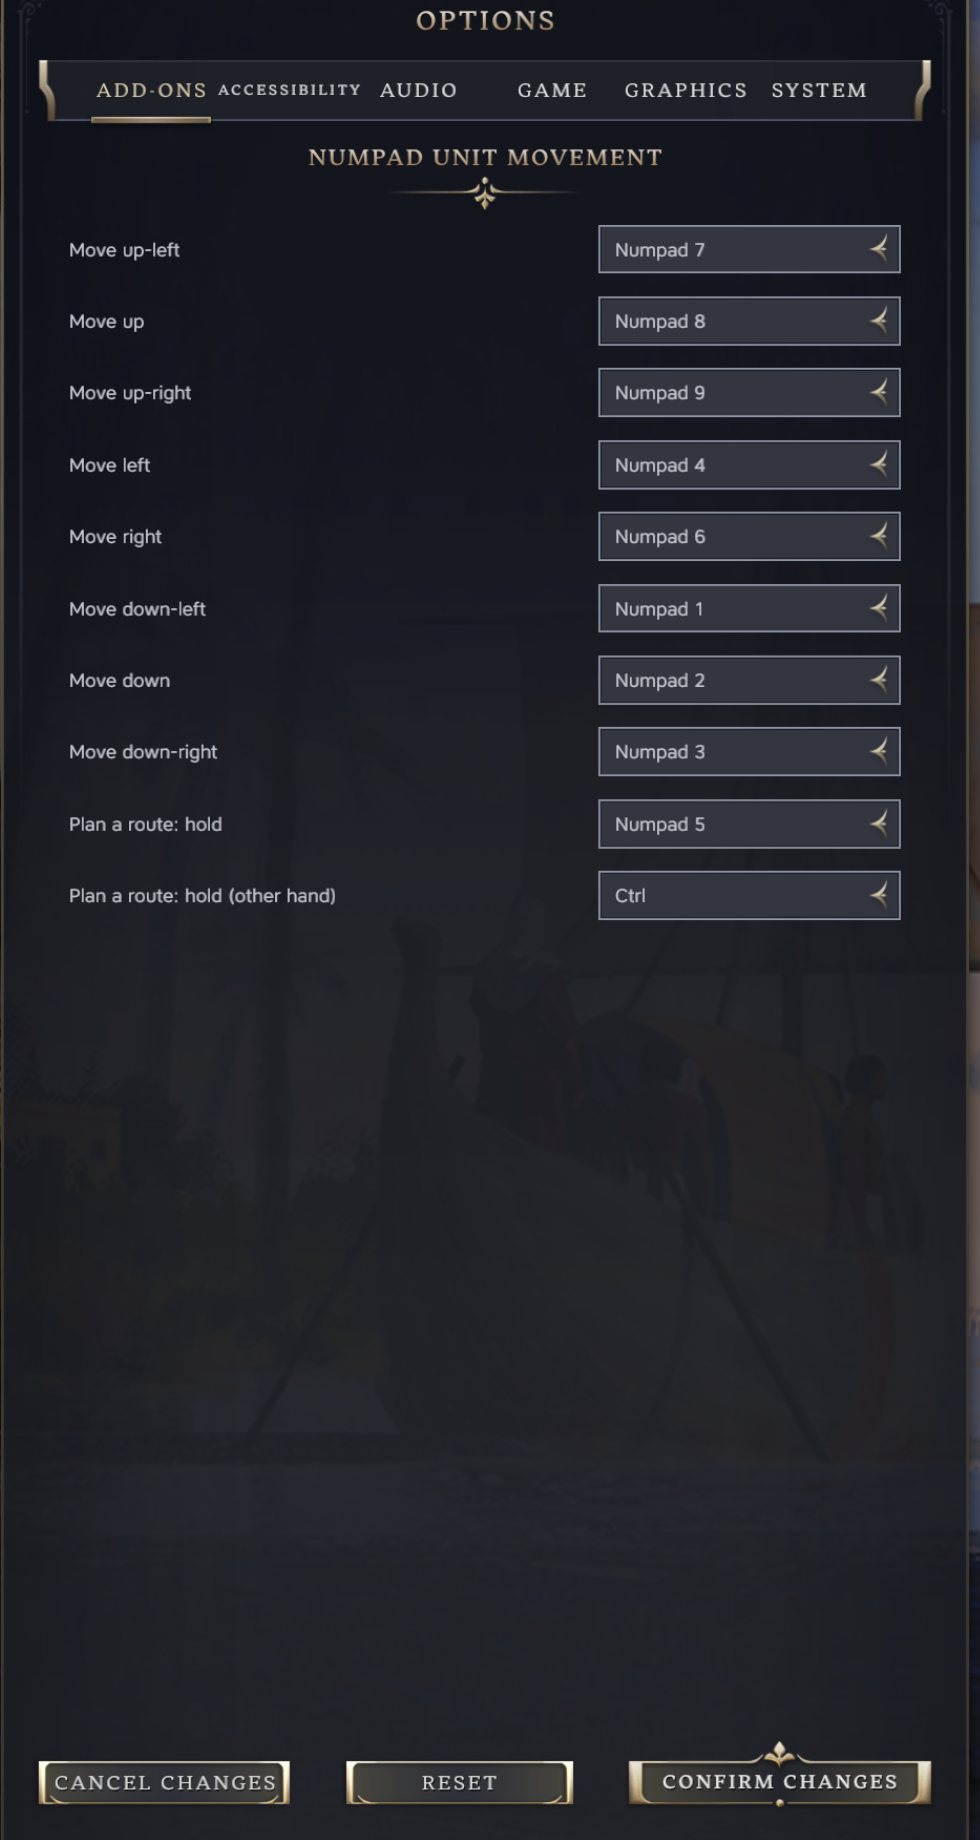
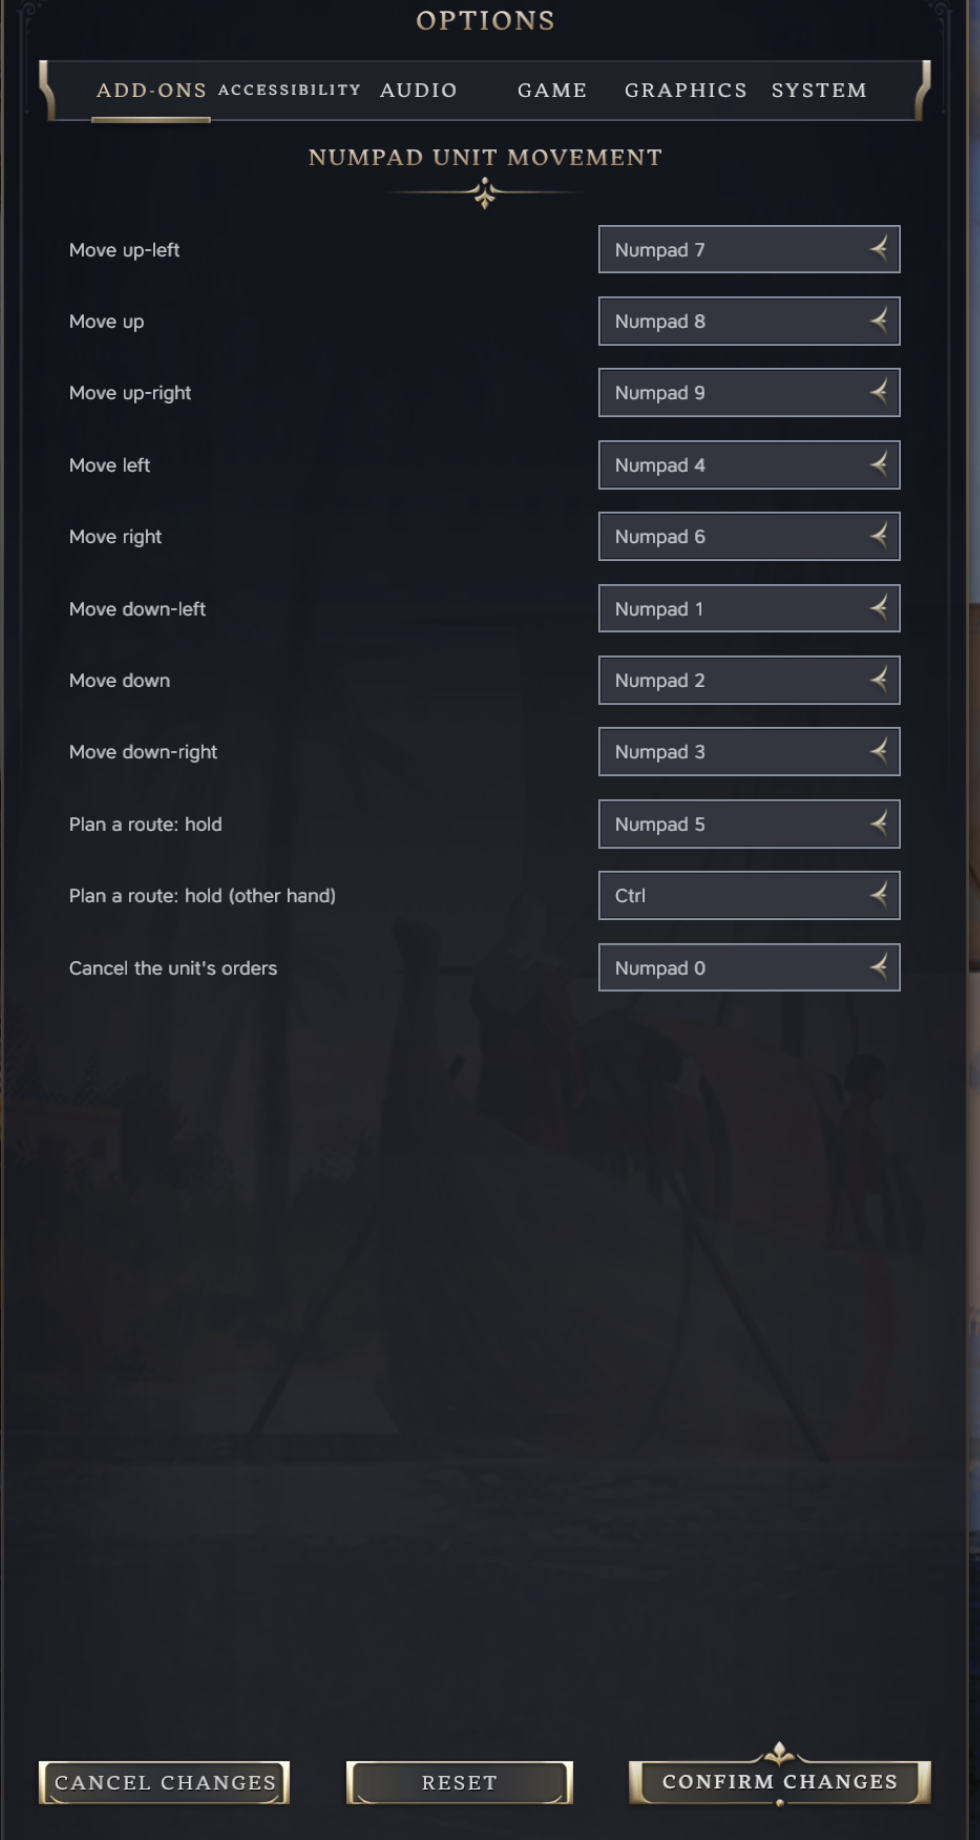
Numpad 0 cancels the unit's orders, the game's own Cancel action; settable in Options

Changed region(s): [[0.6122, 0.4957, 0.9184, 0.5576]]

diff --git a/ui/numpad-unit-movement.js b/ui/numpad-unit-movement.js
@@ -4,7 +4,7 @@ import { ContextManager } from '/core/ui/context-manager/context-manager.js';
 import { InterfaceMode } from '/core/ui/interface-modes/interface-modes.js';
 import ViewManager from '/core/ui/views/view-manager.js';
 import { isIgnoredPress, keyCodeOf, routeDirectionFor, settingFor } from '/tmt-numpad-unit-movement/ui/numpad-keys.js';
-import { DIRECTIONS, ROUTE_HOLDS, getBindings } from '/tmt-numpad-unit-movement/ui/numpad-settings.js';
+import { CANCEL, DIRECTIONS, ROUTE_HOLDS, getBindings } from '/tmt-numpad-unit-movement/ui/numpad-settings.js';
 
 // The map is rows of pointy-top hexes, so a tile has no neighbour straight above or below it. "north" and "south"
 // take the diagonal neighbour that stays in the same column; pressed again from the next row, that is the other
@@ -120,6 +120,17 @@ function moveOneTile(direction) {
   if (onMap(target)) WorldInput.doActionOnPlot(target);
 }
 
+// The game's own Cancel action, as its button on the unit's action bar sends it: the unit drops the order it is
+// carrying out and waits. The game decides whether there is anything to cancel.
+function cancelOrders() {
+  if (!canMoveNow()) return;
+  const unit = selectedUnit();
+  if (!unit) return;
+  const parameters = { X: unit.location.x, Y: unit.location.y };
+  if (!Game.UnitCommands?.canStart(unit.id, "UNITCOMMAND_CANCEL", parameters, false).Success) return;
+  Game.UnitCommands.sendRequest(unit.id, "UNITCOMMAND_CANCEL", parameters);
+}
+
 function onKeyDown(event) {
   if (event.repeat) return;
   const code = keyCodeOf(event);
@@ -127,6 +138,7 @@ function onKeyDown(event) {
   const bindings = getBindings();
   if (settingFor(ROUTE_HOLDS, bindings, code)) return startRoute(code);
   if (isIgnoredPress(event)) return;
+  if (bindings[CANCEL.id] === code) return cancelOrders();
   const direction = settingFor(DIRECTIONS, bindings, code);
   if (direction) moveOneTile(direction);
 }

diff --git a/ui/numpad-settings.js b/ui/numpad-settings.js
@@ -56,8 +56,11 @@ export const ROUTE_HOLDS = [
   { id: "route-left", label: "LOC_NUMPAD_MOVE_ROUTE_KEY_LEFT", key: "Control", keys: HOLD_KEYS },
 ];
 
+// The game's own Cancel action, the button that appears while a unit is carrying out an order.
+export const CANCEL = { id: "cancel", label: "LOC_NUMPAD_MOVE_CANCEL", key: "Numpad0", keys: KEYS };
+
 // Every setting, in the order the Options rows show them.
-export const SETTINGS = [...DIRECTIONS, ...ROUTE_HOLDS];
+export const SETTINGS = [...DIRECTIONS, ...ROUTE_HOLDS, CANCEL];
 
 function readRoot() {
   try {

diff --git a/README.md b/README.md
@@ -14,8 +14,10 @@ trackpad or anyone who would rather not click. The keys can be changed in Option
 - Hold Numpad 5, or Ctrl for the other hand, and the same keys walk a marker across the map instead; the game draws
   the route and turn count as you go. Release the key and the unit is sent there, across several turns if needed,
   exactly as a right-click on that tile would. Escape while holding drops the route.
-- Every key, the eight directions and the two hold keys, can be changed in Options > Add-ons, and the choice is
-  kept between games.
+- Numpad 0 is the game's own Cancel action: a unit carrying out an order stops where it is and waits. The key does
+  nothing when there is nothing to cancel.
+- Every key, the eight directions, the two hold keys and Cancel, can be changed in Options > Add-ons, and the
+  choice is kept between games.
 
 ## What it does not do
 
@@ -69,11 +71,16 @@ game draws the dotted path and turn count to it, as it does while a right-click 
 unit sets off; the game pathfinds the route and carries on over later turns if it has to. Ctrl does the same for
 the other hand. Escape while holding drops the route; so does releasing with the marker back on the unit's tile.
 
+A unit on a multi-turn route keeps going at the start of each turn. Numpad 0 calls it off: it is the game's Cancel
+action, the button that appears on the unit's bar while it has an order, and the unit then waits where it is for a
+new one. A unit that is still carrying out an order refuses a new route until it is cancelled or finishes, which is
+how the game treats a mouse order too.
+
 ![A route planned with Numpad 5 held: the path and turn counts to the marker](docs/images/route-preview.png)
 
 ## Changing the keys
 
-Options > Add-ons > Numpad Unit Movement has one row per direction and one for each hold key. Each row offers the number pad digits, + and *,
+Options > Add-ons > Numpad Unit Movement has one row per direction, one for each hold key and one for Cancel. Each row offers the number pad digits, + and *,
 the number row, Home, End, Page Up, Page Down, Delete, and the letters. Letters are marked "(also a game hotkey)": the game still does its own action for those keys, so pick one only if you have
 moved that game hotkey elsewhere. Choose "None" to switch a direction off. A change applies to the next key press,
 in the main menu or during a game.
@@ -162,6 +169,8 @@ Route planning, real key presses through macOS:
 - Events sent into the page: Escape while holding dropped the route, with the preview cleared and the unit still.
   A unit that is still carrying out an earlier multi-turn order refused a new one, through the game's own
   `canStart` check, exactly as a right-click would.
+- Cancel: with a two-turn route queued, Numpad 0 cleared it (the game's `canStart` for Cancel went from true to
+  false and the queued destination was gone); on an idle unit, and pressed a second time, it did nothing.
 
 Events sent into the page with `devtools/step.sh` and by hand, with the fields the game sends:
 

diff --git a/CHANGELOG.md b/CHANGELOG.md
@@ -9,4 +9,5 @@ All notable changes to Numpad Unit Movement are documented here. This project fo
 - Route planning: hold Numpad 5 (or Ctrl, for the other hand) and press the direction keys to walk a marker across
   the map; the game draws the path and turn count as you go. Release the key and the unit is sent there as one
   right-click would, across several turns if needed. Escape while holding drops the route.
-- Each direction's key and both hold keys can be changed in Options > Add-ons.
+- Numpad 0 is the game's own Cancel action: a unit carrying out an order stops and waits.
+- Each direction's key, both hold keys and Cancel can be changed in Options > Add-ons.
